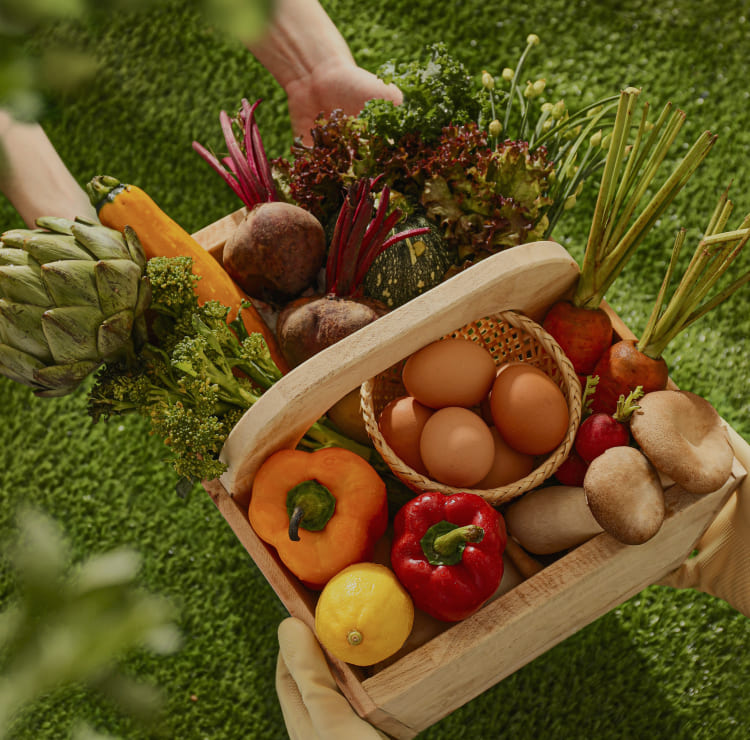
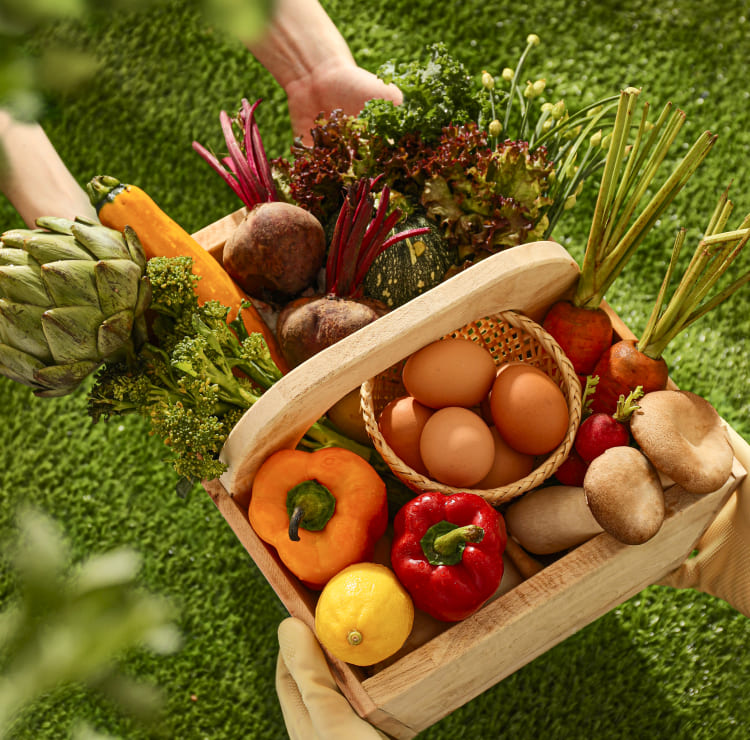
hero-serhii-2

diff --git a/src/css/sections.css/hero.css b/src/css/sections.css/hero.css
@@ -1,18 +1,37 @@
+.hero {
+  background-color: #576f35;
+}
+
 .hero-container {
   padding-top: 100px;
-  padding-bottom: 410px;
-  background-color: #576f35;
-  background-image: url('../img/hero/hero-mob.jpg');
+  padding-bottom: 40px;
+}
+
+.hero-background {
+  max-width: 375px;
+  height: 370px;
+  background-image: linear-gradient(
+      to bottom,
+      rgba(20, 20, 20, 0.2),
+      rgba(20, 20, 20, 0.2)
+    ),
+    url('../img/hero/hero-mob.jpg');
   background-repeat: no-repeat;
-  background-position: bottom;
-  background-size: 375px, cover;
+  background-size: cover;
+  background-position: center;
+  margin: 0 auto;
 }
 
 @media screen and (min-device-pixel-ratio: 2),
   (min-resolution: 192dpi),
   (min-resolution: 2dppx) {
-  .hero-container {
-    background-image: url('../img/hero/hero-mob-2x.jpg');
+  .hero-background {
+    background-image: linear-gradient(
+        to bottom,
+        rgba(20, 20, 20, 0.2),
+        rgba(20, 20, 20, 0.2)
+      ),
+      url('../img/hero/hero-mob-2x.jpg');
   }
 }
 
@@ -40,17 +59,32 @@
   }
 
   .hero-container {
-    background-image: url('../img/hero/hero-tab.jpg');
-    background-size: 768px, cover;
     padding-top: 122px;
-    padding-bottom: 589px;
+    padding-bottom: 50px;
+  }
+
+  .hero-background {
+    max-width: 768px;
+    height: 539px;
+    background-image: linear-gradient(
+        to bottom,
+        rgba(20, 20, 20, 0.2),
+        rgba(20, 20, 20, 0.2)
+      ),
+      url('../img/hero/hero-tab.jpg');
+    background-size: cover;
   }
 
   @media screen and (min-device-pixel-ratio: 2),
     (min-resolution: 192dpi),
     (min-resolution: 2dppx) {
-    .hero-container {
-      background-image: url('../img/hero/hero-tab-2x.jpg');
+    .hero-background {
+      background-image: linear-gradient(
+          to bottom,
+          rgba(20, 20, 20, 0.2),
+          rgba(20, 20, 20, 0.2)
+        ),
+        url('../img/hero/hero-tab-2x.jpg');
     }
   }
 
@@ -67,31 +101,46 @@
 }
 
 @media screen and (min-width: 1280px) {
-  .container {
+  .hero-flex-container {
+    display: flex;
     max-width: 1280px;
-    padding-left: 100px;
-    padding-right: 100px;
+  }
+
+  .container {
+    padding: 0;
   }
 
   .hero-container {
-    background-image: url('../img/hero/hero.jpg');
-    background-size: 650px, cover;
-    background-position: right;
-    padding-top: 238px;
-    padding-bottom: 50px;
+    max-width: 630px;
+    padding: 238px 28px 40px 100px;
+  }
+
+  .hero-background {
+    width: 650px;
+    height: 800px;
+    background-image: linear-gradient(
+        to bottom,
+        rgba(20, 20, 20, 0.2),
+        rgba(20, 20, 20, 0.2)
+      ),
+      url('../img/hero/hero.jpg');
   }
 
   @media screen and (min-device-pixel-ratio: 2),
     (min-resolution: 192dpi),
     (min-resolution: 2dppx) {
-    .hero-container {
-      background-image: url('../img/hero/hero-2x.jpg');
+    .hero-background {
+      background-image: linear-gradient(
+          to bottom,
+          rgba(20, 20, 20, 0.2),
+          rgba(20, 20, 20, 0.2)
+        ),
+        url('../img/hero/hero-2x.jpg');
     }
   }
 
   .hero-title {
     margin-bottom: 128px;
-    width: 502px;
   }
 
   .hero-text {

diff --git a/src/partials/hero.html b/src/partials/hero.html
@@ -1,11 +1,14 @@
 <section class="hero">
-  <div class="container hero-container">
-    <h1 class="hero-title">Organic vegetables to your diet today!</h1>
-    <p class="hero-text">
-      Our expertly curated vegetable baskets are made with the freshest, highest
-      quality vegetables available. Fresh Harvest Box has got you covered.
-      Fresh, high-quality vegetables in expertly curated vegetable baskets
-      delivered to you.
-    </p>
+  <div class="hero-flex-container">
+    <div class="container hero-container">
+      <h1 class="hero-title">Organic vegetables to your diet today!</h1>
+      <p class="hero-text">
+        Our expertly curated vegetable baskets are made with the freshest,
+        highest quality vegetables available. Fresh Harvest Box has got you
+        covered. Fresh, high-quality vegetables in expertly curated vegetable
+        baskets delivered to you.
+      </p>
+    </div>
+    <div class="hero-background"></div>
   </div>
 </section>
